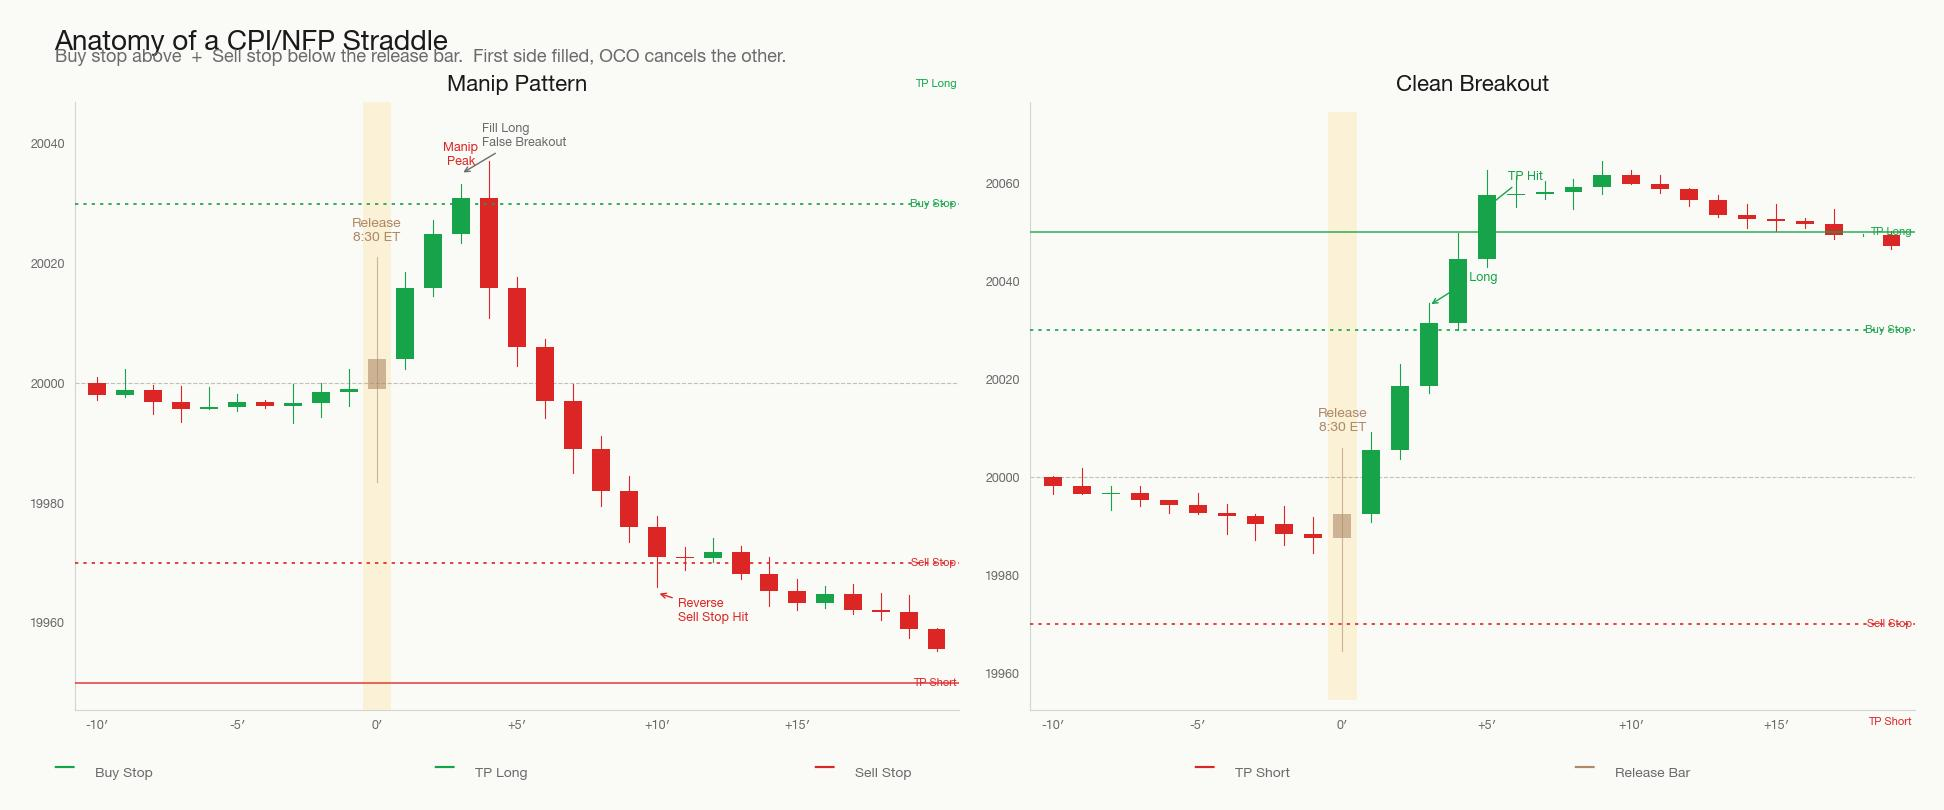
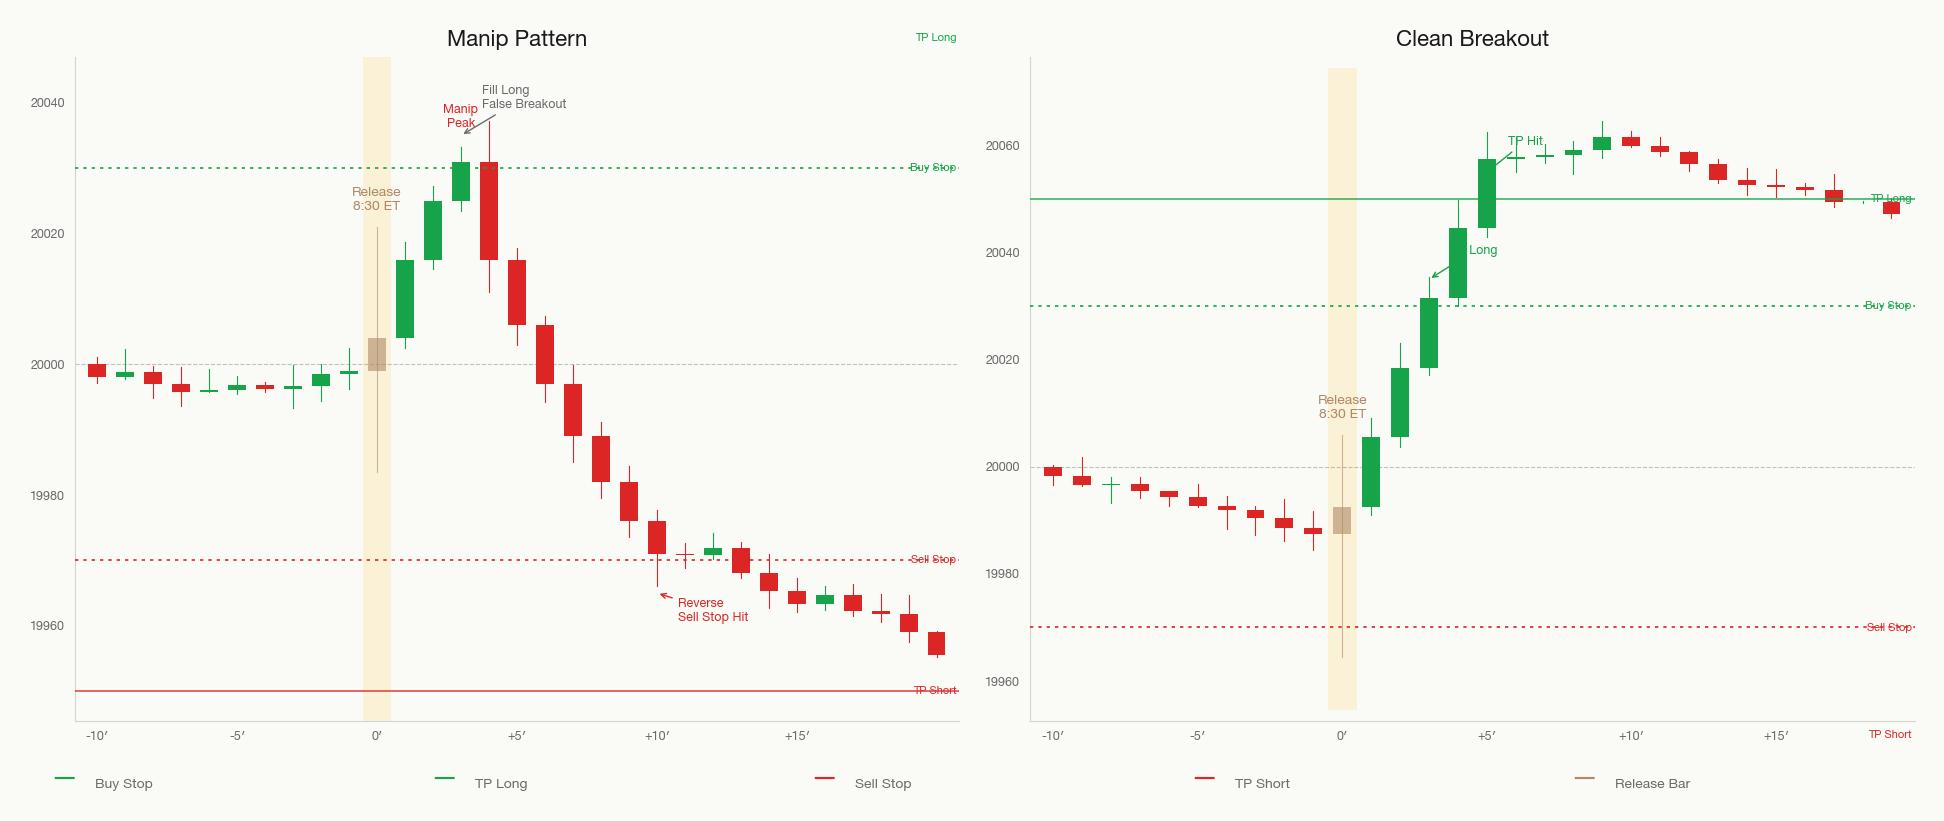
fix: remove duplicate portrait page, replace Unicode, dedupe concept title
- Removed redundant portrait page per combo (fixes 50 -> 38 pages)
- Replaced Unicode -> with "to" and em-dashes with "--" in all doc.text()
- Regenerated concept charts without the internal suptitle
- PDF: 38 pages, 2.0 MB

diff --git a/app/backtested-data/_components/StraddleExplorer.tsx b/app/backtested-data/_components/StraddleExplorer.tsx
@@ -343,13 +343,13 @@ export default function StraddleExplorer({
       // ── Cover ──
       doc.setFont('times', 'bold');
       doc.setFontSize(26);
-      doc.text(`${config.eventType} Straddle — Custom Report`, 40, 80);
+      doc.text(`${config.eventType} Straddle -- Custom Report`, 40, 80);
 
       doc.setFont('helvetica', 'normal');
       doc.setFontSize(11);
       doc.setTextColor(80);
       doc.text(
-        'Generated by jacktradesnq.com — interactive explorer',
+        'Generated by jacktradesnq.com -- interactive explorer',
         40,
         102,
       );
@@ -368,7 +368,7 @@ export default function StraddleExplorer({
       doc.setFont('helvetica', 'normal');
       doc.setFontSize(11);
       const filterLines = [
-        `• Year: ${year === ALL ? 'All years (2016–2026)' : year}`,
+        `• Year: ${year === ALL ? 'All years (2016-2026)' : year}`,
         `• ${config.offsetLabel}: ${offset === ALL ? 'All' : `${offset} pts`}`,
         `• TP target: ${tp === ALL ? 'All' : `${tp} pts`}`,
         `• Side: ${
@@ -488,7 +488,7 @@ export default function StraddleExplorer({
           doc.setFontSize(18);
           doc.setTextColor(20);
           doc.text(
-            `Year-by-year breakdown — ${offset} / ${tp}`,
+            `Year-by-year breakdown -- ${offset} / ${tp}`,
             40,
             70,
           );
@@ -552,20 +552,8 @@ export default function StraddleExplorer({
         const validImgs = imgs.filter(Boolean) as string[];
         if (validImgs.length === 0) continue;
 
-        doc.addPage();
-
-        // Page title
-        doc.setFont('times', 'bold');
-        doc.setFontSize(16);
-        doc.setTextColor(20);
-        doc.text(
-          `${config.eventType}  —  ${config.offsetLabel} ${offVal} pts  /  TP ${tpVal} pts`,
-          40,
-          50,
-        );
-
         // One landscape page per outcome chart
-        const LABELS: Record<string, string> = { tp_hit: 'TP Hit', manip: 'Manip → SL', no_fill: 'No Fill' };
+        const LABELS: Record<string, string> = { tp_hit: 'TP Hit', manip: 'Manip to SL', no_fill: 'No Fill' };
         for (let i = 0; i < outcomes.length; i++) {
           const img = imgs[i];
           if (!img) continue;
@@ -574,7 +562,7 @@ export default function StraddleExplorer({
           doc.setFontSize(14);
           doc.setTextColor(20);
           doc.text(
-            `${config.eventType} — SL ${offVal} / TP ${tpVal} — ${LABELS[outcomes[i]]}`,
+            `${config.eventType} -- SL ${offVal} / TP ${tpVal} -- ${LABELS[outcomes[i]]}`,
             40, 40,
           );
           const pageW = doc.internal.pageSize.getWidth();